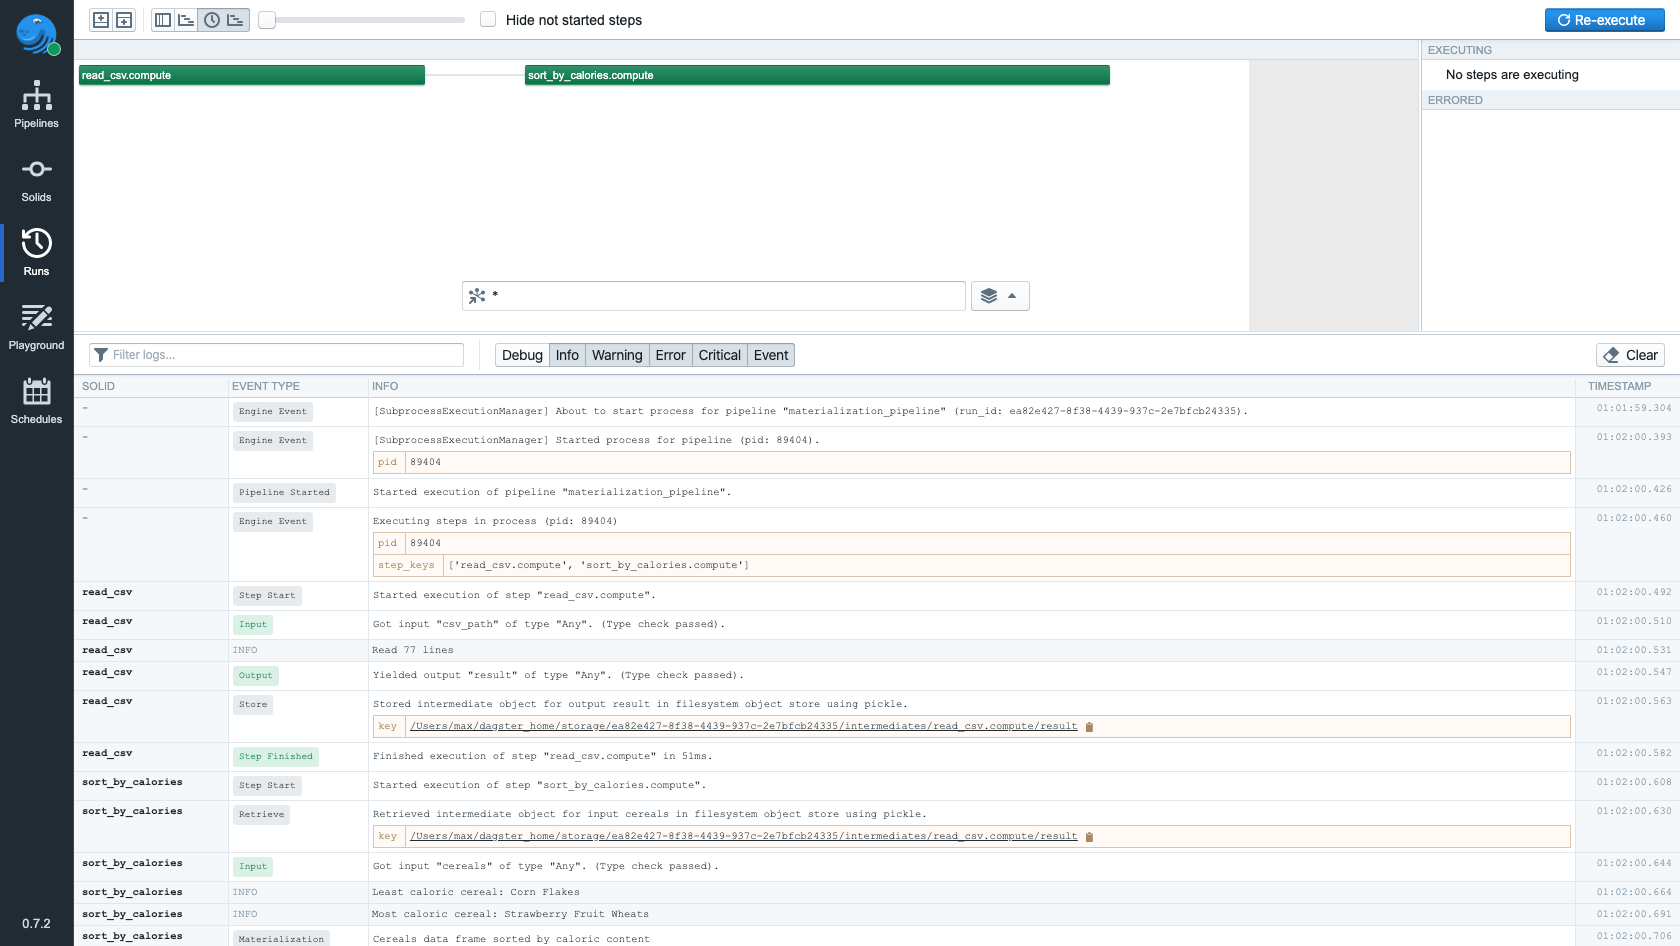
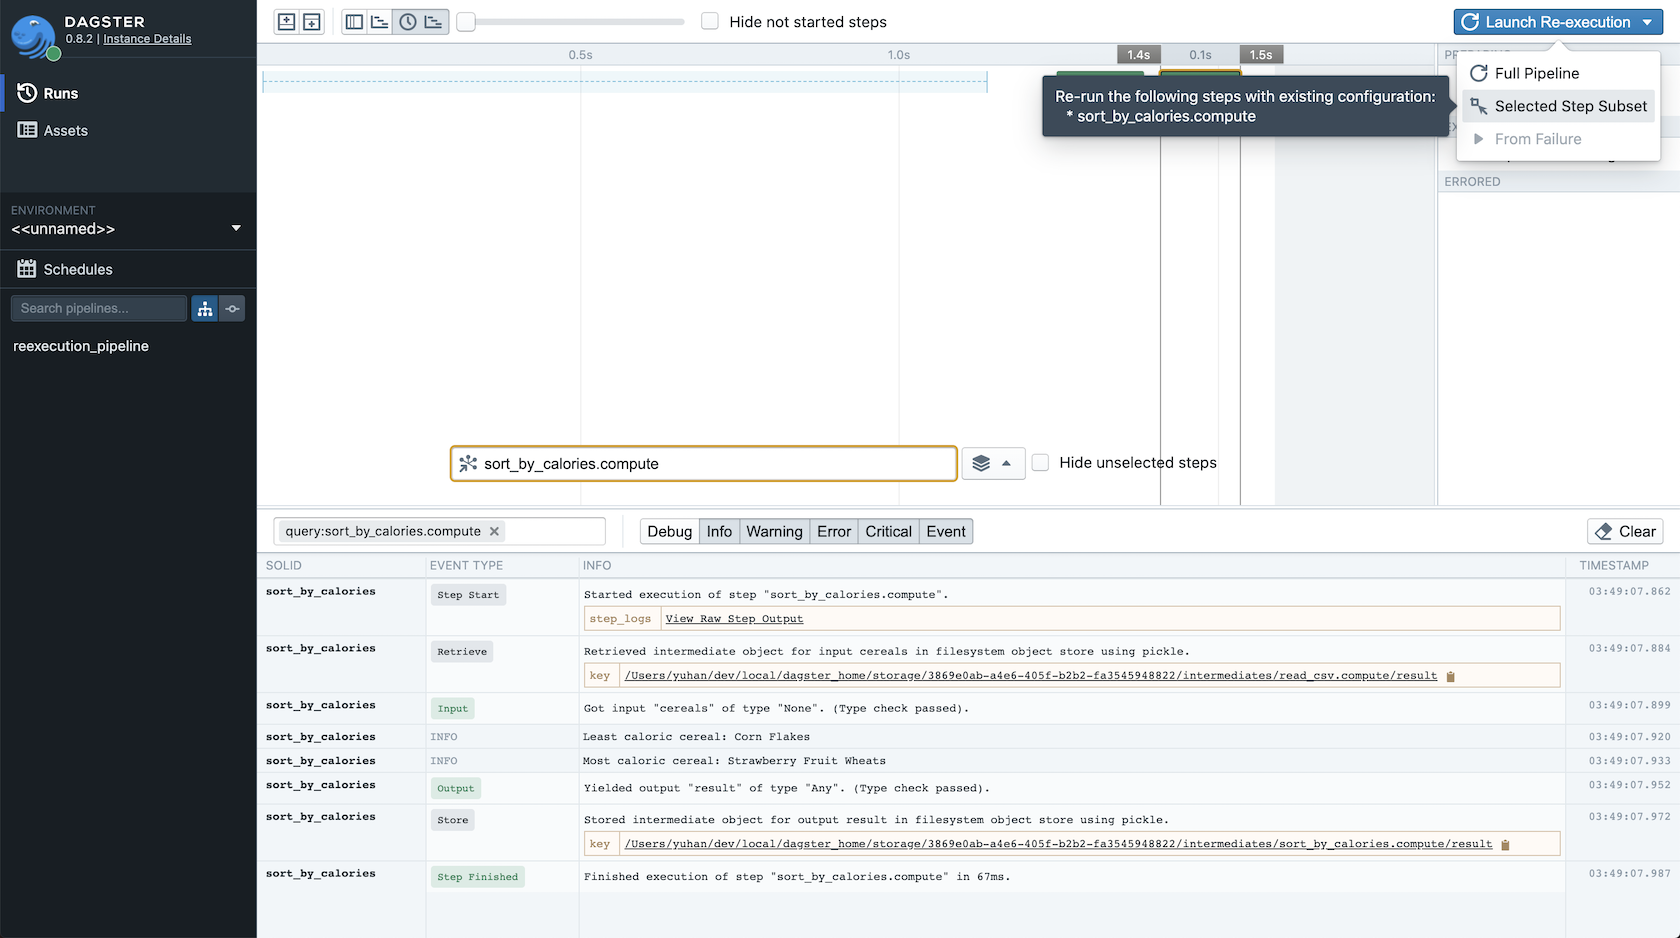
reexecute tutorial update
Summary:
update tutorial to demonstrate the new re-execution feature https://github.com/dagster-io/dagster/issues/2591
add new reexecute_pipeline API in tutorial https://github.com/dagster-io/dagster/issues/2579

manually updated screenshots
added materialization section back -- D3432 removed it

Test Plan:
page screenshot for review
{F163755}

Reviewers: nate, max, schrockn

Reviewed By: nate

Differential Revision: https://dagster.phacility.com/D3515

diff --git a/examples/dagster_examples/intro_tutorial/advanced/intermediates/reexecution.py b/examples/dagster_examples/intro_tutorial/advanced/intermediates/reexecution.py
@@ -1,0 +1,68 @@
+import csv
+import os
+
+from dagster import (
+    DagsterInstance,
+    execute_pipeline,
+    pipeline,
+    reexecute_pipeline,
+    solid,
+)
+
+
+@solid
+def read_csv(context, csv_path: str) -> list:
+    csv_path = os.path.join(os.path.dirname(__file__), csv_path)
+    with open(csv_path, 'r') as fd:
+        lines = [row for row in csv.DictReader(fd)]
+
+    context.log.info('Read {n_lines} lines'.format(n_lines=len(lines)))
+    return lines
+
+
+@solid
+def sort_by_calories(context, cereals: list):
+    sorted_cereals = sorted(cereals, key=lambda cereal: cereal['calories'])
+    context.log.info(
+        'Least caloric cereal: {least_caloric}'.format(
+            least_caloric=sorted_cereals[0]['name']
+        )
+    )
+    context.log.info(
+        'Most caloric cereal: {most_caloric}'.format(
+            most_caloric=sorted_cereals[-1]['name']
+        )
+    )
+    return sorted_cereals
+
+
+@pipeline
+def reexecution_pipeline():
+    sort_by_calories(read_csv())
+
+
+if __name__ == '__main__':
+    run_config = {
+        'solids': {
+            'read_csv': {
+                'inputs': {'csv_path': {'value': '../../cereal.csv'}}
+            }
+        },
+        'storage': {'filesystem': {}},
+    }
+    instance = DagsterInstance.ephemeral()
+    result = execute_pipeline(
+        reexecution_pipeline, run_config=run_config, instance=instance
+    )
+
+    assert result.success
+
+    # skip 'read_csv' and only re-execute step 'sort_by_calories.compute'
+    reexecution_result = reexecute_pipeline(
+        reexecution_pipeline,
+        parent_run_id=result.run_id,
+        step_keys_to_execute=['sort_by_calories.compute'],
+        instance=instance,
+        run_config=run_config,
+    )
+    assert reexecution_result.success

diff --git a/docs/sections/api/apidocs/execution.rst b/docs/sections/api/apidocs/execution.rst
@@ -10,6 +10,13 @@ Executing pipelines
 
 .. autofunction:: execute_pipeline_iterator
 
+Re-executing pipelines
+-------------------
+
+.. autofunction:: reexecute_pipeline
+
+.. autofunction:: reexecute_pipeline_iterator
+
 Executing solids
 ----------------
 
@@ -128,7 +135,7 @@ Environment Dict Schema
                 # if an output_materialization_config is specified, that schema must be satisfied
                 # here; pickleable types will generally allow output as follows:
                 pickle: {
-                  path: String 
+                  path: String
                 }
               }
             }

diff --git a/CHANGES.md b/CHANGES.md
@@ -1,5 +1,10 @@
 # Changelog
 
+## 0.8.3 (upcoming)
+
+**New**
+- Introduced a new Python API `reexecute_pipeline` to reexecute an existing pipeline run.
+
 ## 0.8.2
 
 **Bugfix**
